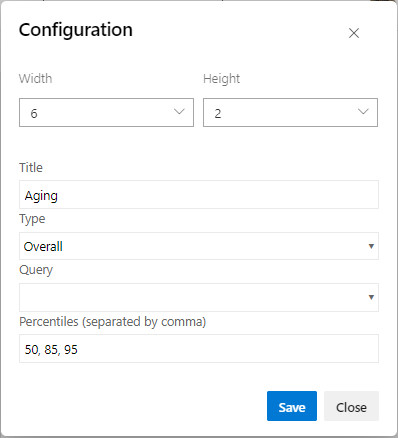
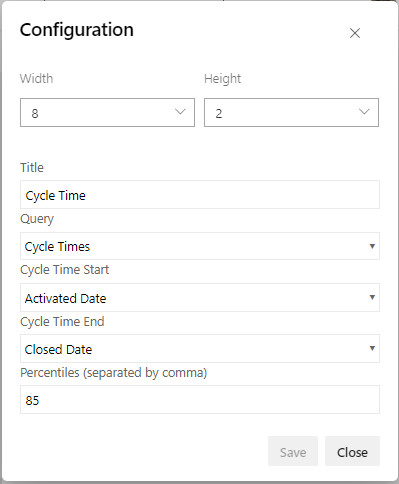
FEAT atualização do overview

diff --git a/overview.md b/overview.md
@@ -1,13 +1,11 @@
 # Overview
 
-The porpuse of this widget is to show an Aging Histogram based on a selected Shared Query. It could show the chart based on Overall Age, State Age or Board Column Age. Also you could define percentiles to be shown on the chart.
+The porpuse of this widget is to show an Cycle Time Histogram based on a selected Shared Query. Also you could define percentiles to be shown on the chart.
 
-![Sample](https://github.com/altamir-junior-dias/azure-devops-extension-aging-histogram/raw/main/images/sample.jpg)
+![Sample](https://github.com/altamir-junior-dias/azure-devops-extension-cycle-time-histogram/raw/main/images/sample.jpg)
 
 ## Configuration
 
-To configure this widget you must select the type and a Shared Query.
+To configure this widget you must select a Shared Query and two field dates.
 
-The **Board Column Age** type must have a Shared Query that contains Backlog items, otherwise a message will be shown.
-
-![Configuration](https://github.com/altamir-junior-dias/azure-devops-extension-aging-histogram/raw/main/images/configuration.jpg)
+![Configuration](https://github.com/altamir-junior-dias/azure-devops-extension-cycle-time-histogram/raw/main/images/configuration.jpg)
